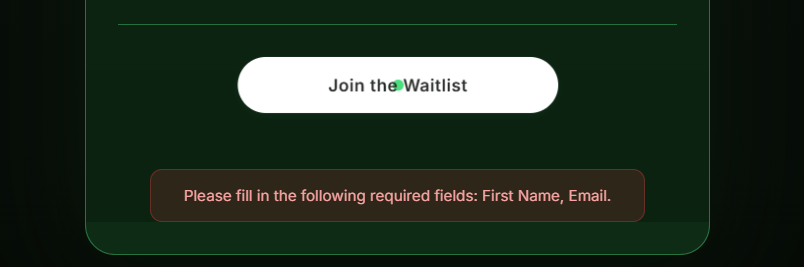
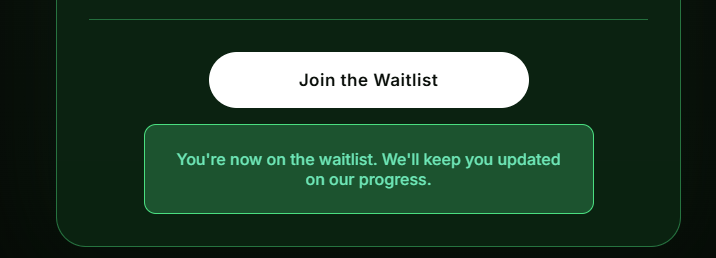
1 - join waitlist updates

diff --git a/join-the-waitlist.html b/join-the-waitlist.html
@@ -96,6 +96,7 @@
             background: linear-gradient(135deg, #ffffff, var(--accent), #ffffff);
             background-size: 200% 200%;
             -webkit-background-clip: text;
+            background-clip: text;
             -webkit-text-fill-color: transparent;
             animation: gradientShift 3s ease infinite;
         }
@@ -248,11 +249,12 @@
         #formMessage {
             padding: 1.5rem;
             border-radius: 12px;
-            margin-top: 1.5rem;
+            margin-top: 1rem;
             text-align: center;
             display: none;
             font-weight: 500;
             backdrop-filter: blur(10px);
+            width: 100%;
         }
 
         #formMessage.success {
@@ -481,9 +483,8 @@
             <div class="btn-wrapper">
                 <button type="submit" class="btn btn-primary" id="submitBtn">Join the Waitlist</button>
                 <div id="submitValidationMessage"></div>
+                <div id="formMessage"></div>
             </div>
-
-            <div id="formMessage"></div>
         </form>
     </div>
 
@@ -618,14 +619,14 @@
             })
             .then(response => {
                 if (response.ok) {
-                    formMessage.textContent = 'You\'re now on the waitlist. We\'ll keep you updated on our progress.';
+                    formMessage.textContent = 'You\'re now on the waitlist! We\'ll keep you updated on our progress.';
                     formMessage.className = 'success';
                     form.reset();
 
                     // Redirect after a delay
                     setTimeout(() => {
                         window.location.href = '/reader';
-                    }, 4000);
+                    }, 10000);
                 } else {
                     throw new Error('Submission failed');
                 }
